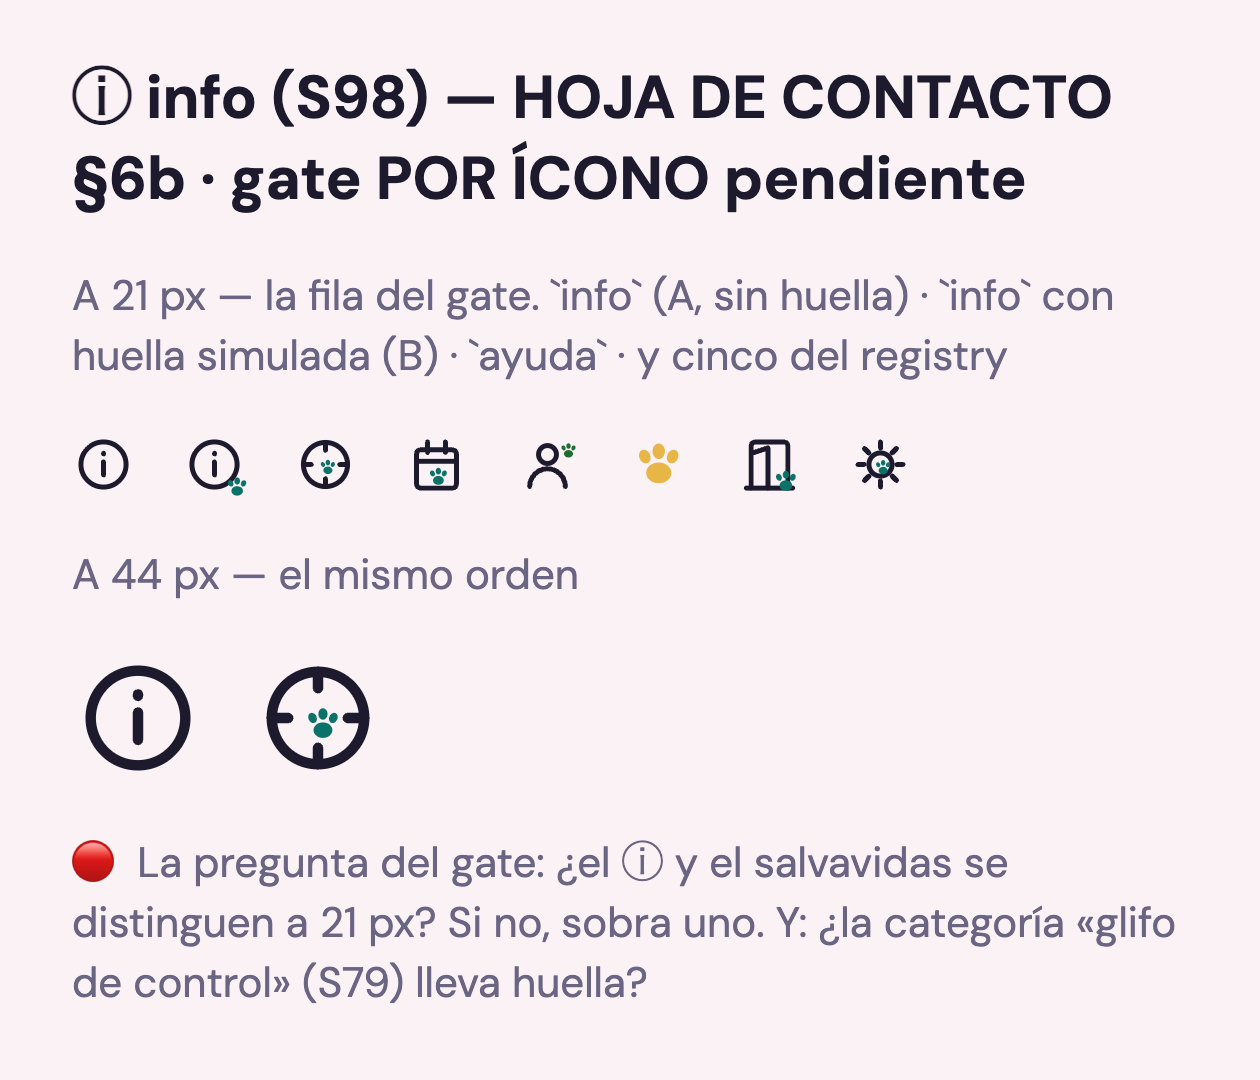
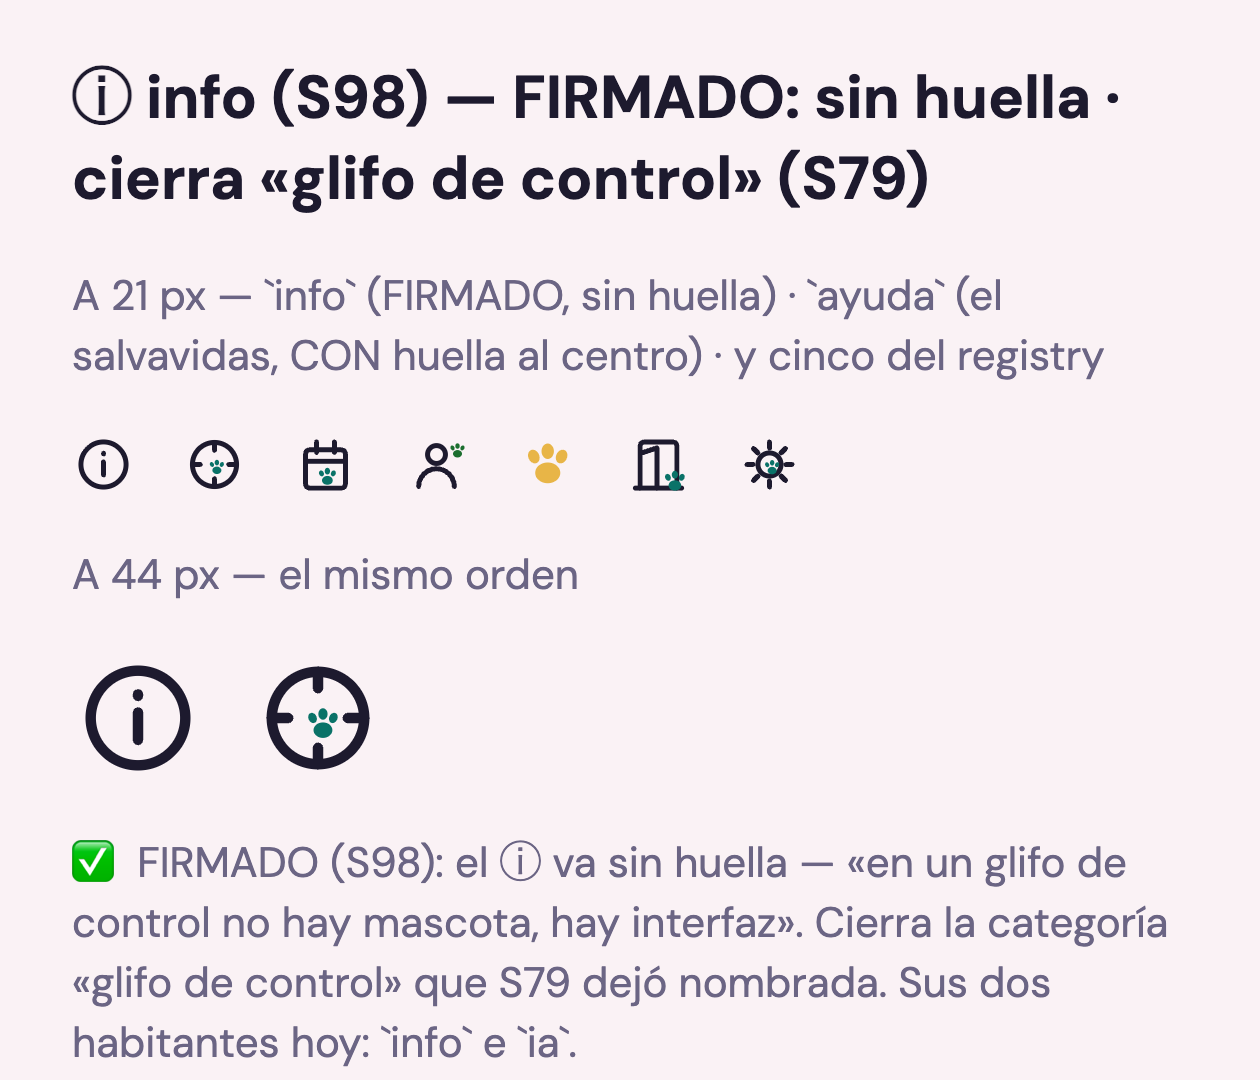
feat(s98-b): DOS FIRMAS DEL FOUNDER — el ⓘ sin huella cierra «glifo de control», y la Hoja FUNDE con reduce-motion
① EL ⓘ VA SIN HUELLA — y con él cierra la categoría «glifo de control»,
nombrada desde S79 y con gate pendiente desde entonces. La regla firmada:

  «en un glifo de control no hay mascota, hay interfaz; la huella se
   reserva para donde significa.»

⚡ ESA REGLA ASCIENDE Y REEMPLAZA MI ARGUMENTO. El mío era GEOMÉTRICO —«en
el ⓘ el centro lo ocupan la barra y el punto»— y servía para ESE dibujo;
la firma da la razón general, que vale para el próximo glifo de control
aunque su centro esté libre. *Un argumento que solo explica el caso que
tenés adelante no evita el caso siguiente.* La geometría queda escrita
porque sigue siendo cierta y explica por qué éste fue el primero en
pedirlo. `ia` deja de ser una excepción suelta de S53 y pasa a ser el
primer habitante de la categoría, con este ⓘ.

LA VARIANTE B SALE DEL CÓDIGO (Ley 37): un candidato rechazado que se
queda montado deja de ser una pregunta y pasa a ser ruido que el próximo
lee como opción viva. Queda escrito lo que su medición dejó: B se mostraba
a 23px —huella en overlay `bottom/right:-2`— mientras los otros ocho
estaban a 21, o sea que se juzgó con dos píxeles MÁS de aire de los que
iba a tener. La firma la rechazó igual.

📮 LA LETRA ES DE A: `DIRECCION_ARTE` §6b / Ley 9 tienen que recibir la
regla firmada. Acá vive el código y su porqué.

② LA HOJA FUNDE CON REDUCE-MOTION — la firma del destape aplicada a la
pieza más frecuente de la casa: quien pidió menos movimiento no ve
[…]

diff --git a/packages/ui/src/components/Hoja.tsx b/packages/ui/src/components/Hoja.tsx
@@ -173,12 +173,29 @@ export function Hoja({
    *  cola con este porqué escrito, no absorbido en silencio. */
   const reduceMotion = useReducedMotion()
   const sinRebote = esMemorial || reduceMotion
+  /** 🔴 S98-B · FIRMA DEL FOUNDER — CON REDUCE-MOTION LA HOJA **FUNDE**.
+   *  Es la firma del destape aplicada a la pieza más frecuente de la
+   *  casa: *quien pidió menos movimiento no ve deslizar*. Con la
+   *  preferencia activada no hay viaje — la hoja aparece y desaparece por
+   *  opacidad, que es lo que hacen iOS y Android con esa preferencia.
+   *
+   *  ⚠ `funde` NO es `sinRebote`, y la diferencia importa: **memorial
+   *  SIGUE DESLIZANDO.** Su receta está firmada desde B1 —«slide+fade
+   *  suave easeOut»— y lo que memorial pide es SERENIDAD, no ausencia de
+   *  movimiento. Reduce-motion pide otra cosa. Colgar las dos del mismo
+   *  booleano habría cambiado memorial sin firma. */
+  const funde = reduceMotion
   const altoHoja =
     altura === 'media' ? altoVentana * 0.5 : altura === 'completa' ? altoVentana * 0.9 : undefined
   const altoMax = altura === 'contenido' ? altoVentana * 0.6 : undefined
 
   const translateY = useSharedValue(altoVentana)
   const backdrop = useSharedValue(0)
+  /** La opacidad de la HOJA (no del scrim, que ya tenía la suya). Solo se
+   *  anima en el camino `funde`; en los otros dos queda en 1 y el estilo
+   *  la aplica igual — un valor constante no cuesta nada y evita una rama
+   *  en el `useAnimatedStyle`. */
+  const opacidadHoja = useSharedValue(1)
   const scrollY = useSharedValue(0)
   const altoReal = useSharedValue(altoVentana)
 
@@ -193,6 +210,17 @@ export function Hoja({
     backdrop.value = withTiming(esMarca ? motion.marca.scrimEfectivo / 0.52 : 1, {
       duration: esMarca ? motion.marca.aperturaMs : motion.duration.normal,
     })
+    // 🔴 EL CAMINO QUE FUNDE: la hoja YA ESTÁ en su sitio y lo único que
+    // corre es la opacidad. `translateY` se planta en 0 sin animar — no
+    // «se anima a 0 muy rápido»: no viaja.
+    if (funde) {
+      translateY.value = 0
+      opacidadHoja.value = withTiming(1, {
+        duration: motion.duration.normal,
+        easing: Easing.bezier(...motion.easing.easeOut.bezier),
+      })
+      return
+    }
     translateY.value = sinRebote
       ? withTiming(0, {
           duration: motion.duration.normal,
@@ -208,15 +236,38 @@ export function Hoja({
 
   const cerrarAnimado = () => {
     backdrop.value = withTiming(0, { duration: motion.duration.fast })
+    /** 🔴 EL PUNTO DELICADO DE ESTA FIRMA, y por eso va escrito: **el
+     *  cierre FUNCIONAL colgaba del callback del deslizamiento.** Ese
+     *  callback es el que desmonta la hoja (`setMontada(false)`) y avisa
+     *  al consumidor (`onCerrar`) — o sea que si el gesto cambia y el
+     *  callback se queda en la animación vieja, la hoja **se vuelve
+     *  invisible pero nunca se cierra**: el Modal sigue montado, el back
+     *  de Android lo sigue consumiendo y el consumidor nunca se entera.
+     *  Un modo de falla mudo: no lanza, no se ve, y deja la app trabada.
+     *
+     *  Por eso el remate viaja CON el gesto, y se declara UNA sola vez
+     *  para que no puedan divergir. */
+    const remate = (fin?: boolean) => {
+      if (fin) {
+        scheduleOnRN(setMontada, false)
+        scheduleOnRN(onCerrar)
+      }
+    }
+    if (funde) {
+      // La hoja se apaga donde está (si venía de un arrastre, ahí mismo).
+      // `translateY` NO se anima: animarlo sería devolverle el viaje que
+      // la preferencia pidió sacar.
+      opacidadHoja.value = withTiming(
+        0,
+        { duration: motion.duration.normal, easing: Easing.bezier(...motion.easing.easeIn.bezier) },
+        remate,
+      )
+      return
+    }
     translateY.value = withTiming(
       altoReal.value,
       { duration: motion.duration.normal, easing: Easing.bezier(...motion.easing.easeIn.bezier) },
-      (fin) => {
-        if (fin) {
-          scheduleOnRN(setMontada, false)
-          scheduleOnRN(onCerrar)
-        }
-      },
+      remate,
     )
   }
 
@@ -224,6 +275,10 @@ export function Hoja({
     if (visible) {
       setMontada(true)
       translateY.value = altoVentana
+      // El reset de la opacidad viaja con el de la posición: sin él, la
+      // segunda apertura del camino `funde` arrancaría desde el 0 que
+      // dejó el cierre anterior y la hoja no aparecería nunca.
+      opacidadHoja.value = funde ? 0 : 1
       requestAnimationFrame(animarEntrada)
       if (titulo) AccessibilityInfo.announceForAccessibility(titulo)
     } else if (montada) {
@@ -276,6 +331,18 @@ export function Hoja({
             // intención que no llegó al cuerpo.
             // *Una regla escrita en el header y desobedecida 260 líneas
             // más abajo, en el mismo archivo.*
+            //
+            // ⚠ ESTE RETORNO **NO** ENTRA AL CAMINO `funde`, y la
+            // distinción no es de comodidad: el imán de `SelectorDia` sí
+            // se volvió instantáneo con la preferencia, y acá no. La
+            // diferencia es a DÓNDE lleva cada uno. El imán de la rueda
+            // viaja a un ítem al que el usuario NO llegó —recorrido
+            // autónomo—; esto devuelve la hoja a donde ella ya estaba,
+            // deshaciendo el arrastre del propio usuario. *Completar un
+            // gesto que alguien empezó con el dedo es manipulación
+            // directa; un salto seco acá se leería como una falla del
+            // arrastre, no como serenidad.* Lo que sí rige es
+            // `sinRebote`: vuelve sereno, sin rebotar.
             translateY.value = sinRebote
               ? withTiming(0, {
                   duration: motion.duration.normal,
@@ -295,7 +362,10 @@ export function Hoja({
     scrollY.value = e.contentOffset.y
   })
 
-  const estiloHoja = useAnimatedStyle(() => ({ transform: [{ translateY: translateY.value }] }))
+  const estiloHoja = useAnimatedStyle(() => ({
+    transform: [{ translateY: translateY.value }],
+    opacity: opacidadHoja.value,
+  }))
   const estiloBackdrop = useAnimatedStyle(() => ({ opacity: backdrop.value }))
 
   if (!montada) return null

diff --git a/packages/ui/src/gallery/TokenGallery.tsx b/packages/ui/src/gallery/TokenGallery.tsx
@@ -3123,33 +3123,37 @@ function GaleriaInterna() {
           </View>
         </Seccion>
 
-        <Seccion titulo="ⓘ info (S98) — HOJA DE CONTACTO §6b · gate POR ÍCONO pendiente">
-          {/* LAS DOS VARIANTES JUNTAS, que es lo que el gate necesita —
-              la duda no es de gusto, es GEOMETRICA: en `ayuda` la huella
-              va al CENTRO (x 9.3 · y 9.5) y en el ⓘ ese centro lo ocupan
-              la barra y el punto.
-              A · SIN HUELLA — riesgo: rompe la regla madre §1. Piso: `ia`
-                  ya es excepcion FIRMADA (S53) por una razon hermana.
-              B · CON HUELLA al pie — riesgo: a 21px compite con el punto
-                  y se lee como ruido (Ley 9), y desplazarla del centro le
-                  quita al ⓘ su forma reconocible.
-              Y AL LADO, `ayuda`: si las dos se confunden a 21px, el glifo
-              nuevo no resuelve nada. */}
+        <Seccion titulo="ⓘ info (S98) — FIRMADO: sin huella · cierra «glifo de control» (S79)">
+          {/* ✅ GATE DADO (S98). Acá vivían las DOS variantes —A sin huella
+              y B con una huella SIMULADA al pie— porque el gate necesitaba
+              verlas juntas. El founder firmó A, así que **B SALE DEL
+              CÓDIGO** (Ley 37: lo que sale de la UI sale del código). Un
+              candidato rechazado que se queda montado deja de ser una
+              pregunta y pasa a ser ruido que el próximo lee como opción
+              viva.
+
+              LA REGLA FIRMADA, que es lo que sobrevive al caso:
+              *«en un glifo de control no hay mascota, hay interfaz; la
+              huella se reserva para donde significa.»*
+              ⇒ `ia` deja de ser una excepción suelta de S53 y pasa a ser
+              el primer habitante de la categoría, con este ⓘ.
+
+              ⚠ LO QUE LA MEDICIÓN DEL GATE DEJÓ ESCRITO, y por eso no se
+              pierde: B se mostraba a **23 px** —su huella era un overlay
+              en `bottom/right: -2`— mientras los otros ocho estaban a 21.
+              O sea que se juzgó con dos píxeles MÁS de aire de los que
+              iba a tener. La firma la rechazó igual.
+
+              QUEDA la comparación que sigue siendo útil de mirar: el ⓘ
+              contra el salvavidas (`ayuda`) a 21 px — son dos trabajos
+              distintos y **pueden convivir en una pantalla**. */}
           <View style={{ gap: spacing[4] }}>
             <Texto variante="apoyo">
-              A 21 px — la fila del gate. `info` (A, sin huella) · `info` con huella simulada (B) ·
-              `ayuda` · y cinco del registry
+              A 21 px — `info` (FIRMADO, sin huella) · `ayuda` (el salvavidas, CON huella al centro)
+              · y cinco del registry
             </Texto>
             <View style={{ flexDirection: 'row', gap: spacing[4], alignItems: 'center' }}>
               <Icono nombre="info" tamano={21} />
-              <View>
-                <Icono nombre="info" tamano={21} />
-                <View style={{ position: 'absolute', bottom: -2, right: -2 }}>
-                  <Svg width={9} height={9} viewBox="0 0 24 24">
-                    <Huella color={theme.capa.cuidado} escala={0.9} />
-                  </Svg>
-                </View>
-              </View>
               <Icono nombre="ayuda" tamano={21} />
               {(['hoy', 'cuenta', 'negocio', 'atender', 'preferencias'] as IconoNombre[]).map((n) => (
                 <Icono key={n} nombre={n} tamano={21} />
@@ -3161,8 +3165,9 @@ function GaleriaInterna() {
               <Icono nombre="ayuda" tamano={44} />
             </View>
             <Texto variante="apoyo">
-              🔴 La pregunta del gate: ¿el ⓘ y el salvavidas se distinguen a 21 px? Si no, sobra
-              uno. Y: ¿la categoría «glifo de control» (S79) lleva huella?
+              ✅ FIRMADO (S98): el ⓘ va sin huella — «en un glifo de control no hay mascota, hay
+              interfaz». Cierra la categoría «glifo de control» que S79 dejó nombrada. Sus dos
+              habitantes hoy: `info` e `ia`.
             </Texto>
           </View>
         </Seccion>

diff --git a/packages/ui/src/components/Icono.tsx b/packages/ui/src/components/Icono.tsx
@@ -596,12 +596,30 @@ const DIBUJANTES: Record<IconoNombre, (p: Pincel) => React.JSX.Element> = {
      **Hay precedente firmado de glifo sin huella:** `ia` (excepción S53),
      por una razón de la misma familia — su marca ES el dibujo.
 
-     🔴 SU GATE NO ESTÁ DADO Y NO LO DOY YO: la categoría **«glifo de
-     control»** está NOMBRADA desde S79 con su gate pendiente, y este ⓘ
-     es justamente uno. **Las dos variantes —con y sin huella— están
-     montadas en la galería** para el gate POR ÍCONO del founder (§6b, a
-     21 px junto a cinco del registry). Con su firma, la categoría que
-     S79 dejó nombrada queda cerrada de paso. */
+     ✅ **GATE DADO — FIRMA DEL FOUNDER (S98): EL ⓘ VA SIN HUELLA**, y con
+     él cierra la categoría **«glifo de control»** que S79 dejó nombrada
+     y sin gate. La regla que firmó, verbatim:
+
+       ***«en un glifo de control no hay mascota, hay interfaz; la huella
+       se reserva para donde significa.»***
+
+     ⚡ ESO ASCIENDE EL ARGUMENTO DE ACÁ Y LO REEMPLAZA. Lo de abajo era
+     geométrico —«en el ⓘ el centro lo ocupan la barra y el punto»— y
+     servía para ESTE dibujo; la firma da la razón GENERAL, que vale para
+     el próximo glifo de control aunque su centro esté libre. *Un
+     argumento que solo explica el caso que tenés adelante no evita el
+     caso siguiente.* La geometría queda escrita porque sigue siendo
+     cierta y porque explica por qué éste fue el primero en pedirlo.
+
+     ⚠ DÓNDE QUEDA LA FRONTERA, que es lo que hay que no perder: la
+     huella marca lo que TIENE MASCOTA ADENTRO —oficios, entidades,
+     lugares del expediente—. Un control es andamiaje: informa, abre,
+     configura. **`ia` deja de ser una excepción suelta de S53 y pasa a
+     ser el primer habitante de esta categoría**, junto con este ⓘ.
+
+     📮 LA LETRA ES DE A: `DIRECCION_ARTE` §6b / Ley 9 tienen que recibir
+     la regla firmada. Acá vive el CÓDIGO y su porqué; la ley canónica no
+     es territorio de esta pista. */
   info: ({ tinta }) => (
     <>
       <Circle cx={12} cy={12} r={8.6} {...trazo(tinta)} />
